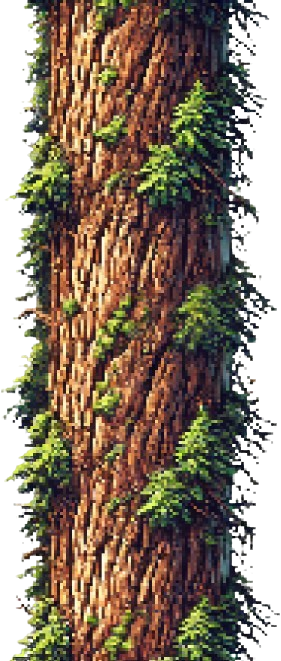
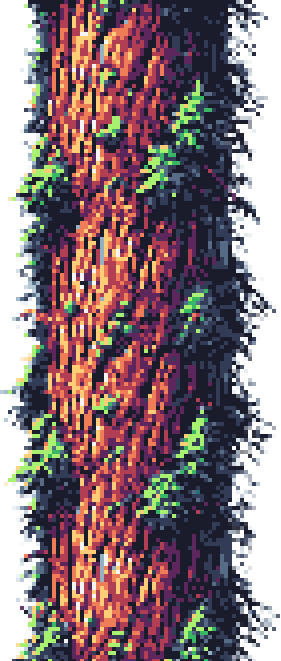
changed branches and trunk palette and added trunk sliding

diff --git a/game.js b/game.js
@@ -28,7 +28,7 @@ background.src = "images/background.png";
 let sBranch = new Image();
 sBranch.src = "sprites/branch.png";
 let sFlippedBranch = new Image();
-sFlippedBranch.src = "sprites/flipped_branch.png";
+sFlippedBranch.src = "sprites/branch_flipped.png";
 let iTrunk = new Image();
 iTrunk.src = "images/trunk.png";
 // Fonts
@@ -77,6 +77,7 @@ let timer = max_timer;
 let game_started = false;
 let game_over = false;
 let game_paused = false;
+let tree_y = 0;
 // Player position
 let player_x = P_RIGHT;
 let player_y = HEIGHT - PLAYER_HEIGHT;
@@ -212,8 +213,11 @@ function addTime(percentage) {
 
 function moveBranchesDown() {
     branches.forEach(branch => branch.y += BRANCH_HEIGHT);
+    tree_y += BRANCH_HEIGHT;
+    if (tree_y > HEIGHT / 2) {
+        tree_y -= HEIGHT / 2;
+    }
     pop_push_new_branch();
-    
 }
 
 function startGame() {
@@ -282,9 +286,11 @@ function draw() {
 		const TREE_FRACTION = TREE_WIDTH / 3;
         // Disegna l'albero TODO CHANGE THE FOLLOWING CODE TO DRAW A TRUNK THAT IS UNREADABLE
 		//upper tile(slightly larger than TREE_WIDTH cause image has a little bit of transparency)
-		ctx.drawImage(iTrunk, WIDTH / 2 - TREE_WIDTH / 2 - TREE_FRACTION, 0, TREE_WIDTH + TREE_FRACTION * 2, HEIGHT / 2);
+		ctx.drawImage(iTrunk, WIDTH / 2 - TREE_WIDTH / 2 - TREE_FRACTION, tree_y, TREE_WIDTH + TREE_FRACTION * 2, HEIGHT / 2);
 		//lower tile(slightly larger than TREE_WIDTH cause image has a little bit of transparency)
-		ctx.drawImage(iTrunk, WIDTH / 2 - TREE_WIDTH / 2 - TREE_FRACTION, HEIGHT / 2, TREE_WIDTH + TREE_FRACTION * 2, HEIGHT / 2);
+		ctx.drawImage(iTrunk, WIDTH / 2 - TREE_WIDTH / 2 - TREE_FRACTION, tree_y + HEIGHT / 2, TREE_WIDTH + TREE_FRACTION * 2, HEIGHT / 2);
+        // extra trunk to cover the gap between the two tiles
+        ctx.drawImage(iTrunk, WIDTH / 2 - TREE_WIDTH / 2 - TREE_FRACTION, tree_y - HEIGHT / 2, TREE_WIDTH + TREE_FRACTION * 2, HEIGHT / 2);
 
         // Disegna i rami
         ctx.fillStyle = GREEN;
